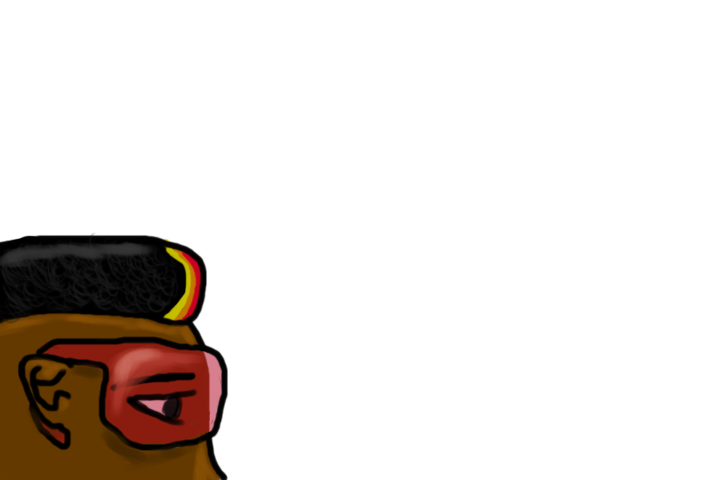
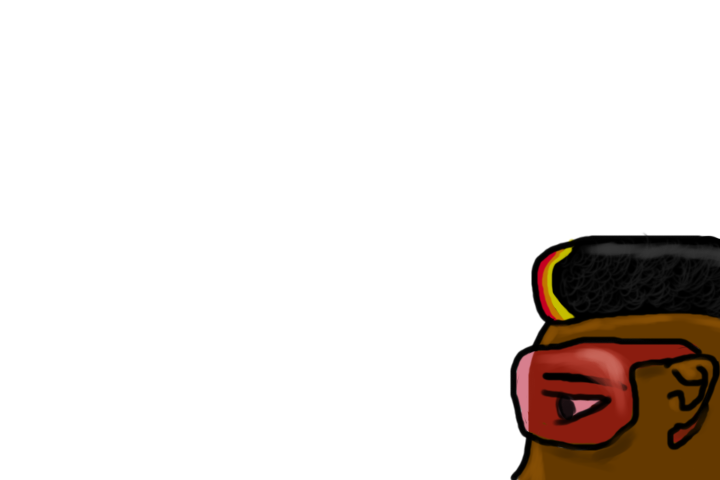
Player speaks and 6 different levels

Changed region(s): [[0.0, 0.4688, 0.3361, 1.0], [0.7028, 0.4688, 1.0, 1.0]]

diff --git a/src/scenes/Play.js b/src/scenes/Play.js
@@ -9,14 +9,23 @@ class Play extends Phaser.Scene {
         this.load.image('key pin 1', './asset/images/Key_Pin_1.png');
         this.load.image('driver pin 1', './asset/images/Driver_Pin_1.png');
         this.load.image('timer', './asset/images/Timer.png');
-        this.load.image('People', './asset/images/ThePeople.png')
+        this.load.image('player', './asset/images/Player.png')
+        this.load.image('customer 1', './asset/images/Level_1_person.png')
+        this.load.image('customer 2', './asset/images/Level_2_person.png')
+        this.load.image('customer 3', './asset/images/Level_3_person.png')
+        this.load.image('customer 4', './asset/images/Level_4_person.png')
+        this.load.image('customer 5', './asset/images/Level_5_person.png')
+        this.load.image('customer 6', './asset/images/Level_6_person.png')
         this.load.spritesheet('emotes', 'asset/images/Pin_Emotes_Spritesheet.png', { frameWidth: 24, frameHeight: 24 });
         this.load.image('customer bubble', './asset/images/flipped_small_bubble.png')
         this.load.image('player bubble', './asset/images/small_bubble.png')
     }
     create() {
+        console.log(window.currentLevel);
+
         //game over flag
         this.gameOver = false;
+        this.win = false;
 
         //configuration code for audio
         let musicConfig = {
@@ -44,14 +53,13 @@ class Play extends Phaser.Scene {
         
         //setting up pre-level delay before lock is covered
         this.levelStart = false;
-        this.timerLength = 60;
+        this.timerLength = 60 - window.currentLevel*10;
         this.memorizeText = this.add.text(game.config.width/3, borderUISize*5 - borderPadding, "Memorize the Symbols");
         this.preClock = this.time.delayedCall(8000, () => {
             this.levelStart = true; // the lock has been covered and the level timer will begin
             this.memorizeText.y = 1000;
 
             // show the correct order of symbols
-            this.playerBubble = this.add.tileSprite(100, 220, 360, 90, 'player bubble').setOrigin(0, 0);
             this.customerBubble = this.add.tileSprite(190, 280, 360, 90, 'customer bubble').setOrigin(0, 0);
             this.emoteSpeechA = this.add.image(240, 300, 'emotes', this.levelEmotes[this.pinOrder[0]]).setOrigin(0, 0);
             this.emoteSpeechB = this.add.image(290, 300, 'emotes', this.levelEmotes[this.pinOrder[1]]).setOrigin(0, 0);
@@ -59,6 +67,16 @@ class Play extends Phaser.Scene {
             this.emoteSpeechD = this.add.image(390, 300, 'emotes', this.levelEmotes[this.pinOrder[3]]).setOrigin(0, 0);
             this.emoteSpeechE = this.add.image(440, 300, 'emotes', this.levelEmotes[this.pinOrder[4]]).setOrigin(0, 0);
             this.emoteSpeechF = this.add.image(490, 300, 'emotes', this.levelEmotes[this.pinOrder[5]]).setOrigin(0, 0);
+
+            // create the player's order of symbols
+            this.playerBubble = this.add.tileSprite(100, 220, 360, 90, 'player bubble').setOrigin(0, 0);
+            this.emotePlayerA = this.add.image(140, 1000, 'emotes', this.levelEmotes[this.pinOrder[0]]).setOrigin(0, 0);
+            this.emotePlayerB = this.add.image(190, 1000, 'emotes', this.levelEmotes[this.pinOrder[1]]).setOrigin(0, 0);
+            this.emotePlayerC = this.add.image(240, 1000, 'emotes', this.levelEmotes[this.pinOrder[2]]).setOrigin(0, 0);
+            this.emotePlayerD = this.add.image(290, 1000, 'emotes', this.levelEmotes[this.pinOrder[3]]).setOrigin(0, 0);
+            this.emotePlayerE = this.add.image(340, 1000, 'emotes', this.levelEmotes[this.pinOrder[4]]).setOrigin(0, 0);
+            this.emotePlayerF = this.add.image(390, 1000, 'emotes', this.levelEmotes[this.pinOrder[5]]).setOrigin(0, 0);
+            this.emotePlayers = [this.emotePlayerA, this.emotePlayerB, this.emotePlayerC, this.emotePlayerD, this.emotePlayerE, this.emotePlayerF]
 
             this.clock = this.time.delayedCall(this.timerLength * 1000, () => { //setting up the clock
                 this.gameOver = true; // once timer runs it means game over
@@ -128,9 +146,12 @@ class Play extends Phaser.Scene {
         this.currentStep = 0;
         this.setPins = [false, false, false, false, false, false];
 
-        //Adding the people sprite
-        this.people = this.add.tileSprite(0,20,game.config.width, game.config.height, "People").setOrigin(0,0);
-        this.people.depth = -1
+        //Adding the player and customer sprite
+        this.customers = ["customer 1", "customer 2", "customer 3", "customer 4", "customer 5", "customer 6"]
+        this.player = this.add.tileSprite(0,20,game.config.width, game.config.height, "player").setOrigin(0,0);
+        this.customer = this.add.tileSprite(0,20,game.config.width, game.config.height, this.customers[window.currentLevel]).setOrigin(0,0);
+        this.player.depth = -1
+        this.customer.depth = -1
 
         //Add Lock Cover
         this.lockCover = this.add.tileSprite(100, 1000, 720, 480, 'lock cover').setOrigin(0, 0);
@@ -193,6 +214,7 @@ class Play extends Phaser.Scene {
                     this.sound.play('sfx_TrueClick');
                     console.log("pin set!")
                     this.setPins[this.pointerPos] = true;
+                    this.emotePlayers[this.currentStep].y = 240;
                     this.currentStep ++;
                     console.log(this.gameOver);
                     //reset wrong counter
@@ -201,6 +223,7 @@ class Play extends Phaser.Scene {
                     //win the game
                     if(this.currentStep == 6) {
                         this.gameOver = true; //  for now we want it to end here
+                        this.win = true;
                         console.log(this.gameOver);
                         this.pointer.y = 1000; //not sure why this doesn't disappear but this fixes it
                         //this.create();
@@ -218,9 +241,11 @@ class Play extends Phaser.Scene {
                         this.currentStep -= 1;
                         let n = this.pinOrder[this.currentStep]; //[5,2,0,4,1,3]
                         this.setPins[n] = false;
+                        this.emotePlayers[this.currentStep].y = 1000
                     }
                    
                 }
+
             }
 
             //pin drop
@@ -234,9 +259,20 @@ class Play extends Phaser.Scene {
                     this.driverPins[i].y += .75;
                     this.emotePins[i].y += .75;
                 }
+
             }
+
         }else{
-            this.scene.start("menuScene");
+            if(this.win){
+                window.currentLevel += 1;
+            }
+            if(window.currentLevel == 6) {
+                this.scene.start("menuScene");
+            }
+            else
+            {
+                this.scene.start("playScene");
+            }
         }
 
         

diff --git a/src/scenes/Menu.js b/src/scenes/Menu.js
@@ -23,6 +23,9 @@ class Menu extends Phaser.Scene {
 
         //placeholder skip past menu into playscene
         //this.scene.start("playScene");
+
+        //keep track of levels
+        window.currentLevel = 0;
     }
     update(){
         //press w to start game
